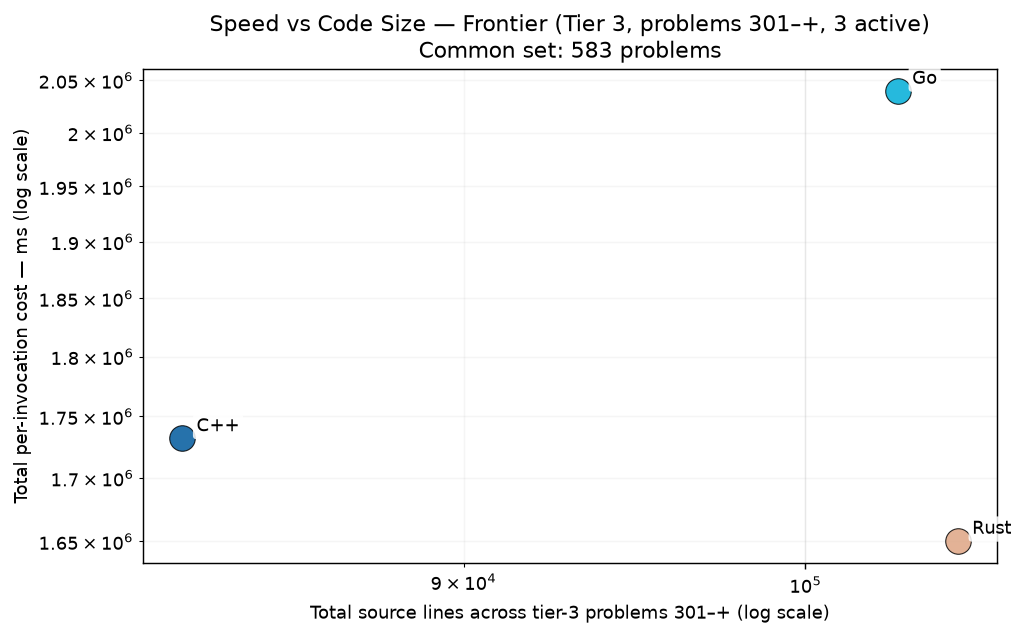
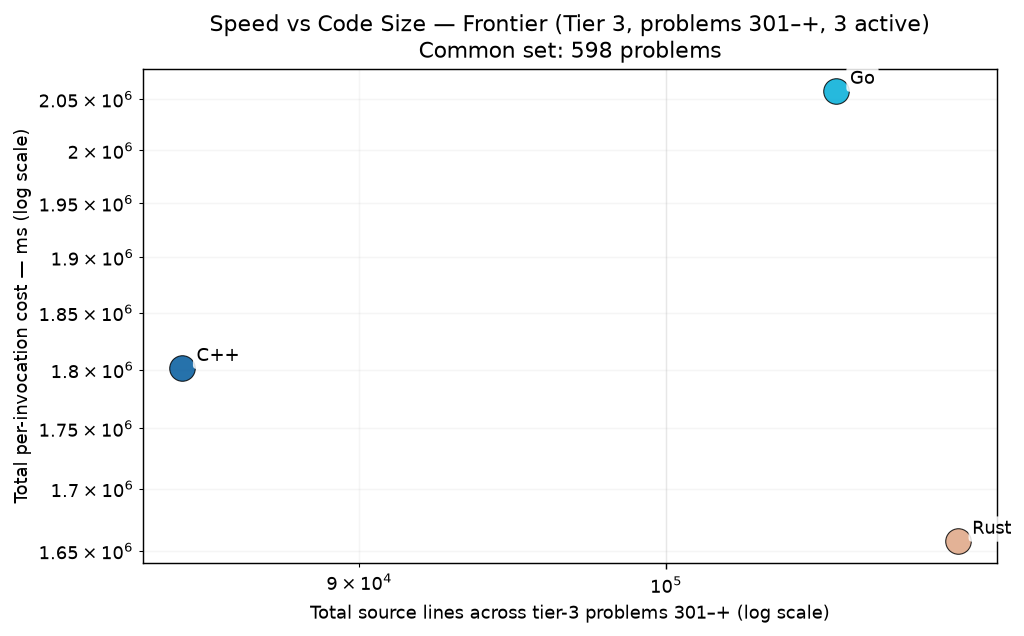
rust p0768

diff --git a/per_problem/per_problem_0401-0500.md b/per_problem/per_problem_0401-0500.md
@@ -57,10 +57,10 @@ in tier-1 display order (native → managed → interpreted).
 | **p0447** | 1.32 s | 1.35 s | 1.43 s |
 | **p0448** | 4.62 s | 14.13 s | 9.78 s |
 | **p0449** | <1 µs~ | <1 µs | 1.5 µs~ |
-| **p0450** | — | 30.08 ms | — |
+| **p0450** | 39.42 ms | 30.08 ms | 111.01 ms |
 | **p0451** | 4.48 s | 5.82 s | 9.08 s |
 | **p0452** | 2.43 s | 4.45 s | 3.56 s |
-| **p0453** | — | 709.2 µs | — |
+| **p0453** | 605.47 ms | 709.2 µs | 6.61 ms |
 | **p0454** | 91.58 s | 1.47 s | 1.49 s |
 | **p0455** | 2.55 s | 1.42 s | 711.39 ms |
 | **p0456** | 310.66 ms | 111.05 ms | 281.59 ms |
@@ -72,41 +72,41 @@ in tier-1 display order (native → managed → interpreted).
 | **p0462** | 1.88 ms | 1.97 ms | 139.4 µs |
 | **p0463** | <1 µs | <1 µs | 20.6 µs~ |
 | **p0464** | 11.96 s | 11.66 s | 14.45 s |
-| **p0465** | — | 669.33 ms | — |
+| **p0465** | 897.71 ms | 669.33 ms | 1.18 s |
 | **p0466** | 2.29 s | 1.70 s | 1.31 s |
 | **p0467** | 114.61 ms | 158.00 ms | 289.56 ms |
 | **p0468** | 12.11 s | 23.12 s | 18.95 s |
 | **p0469** | <1 µs | <1 µs | 1.2 µs~ |
 | **p0470** | 2.30 s | 716.72 ms | 1.03 s |
-| **p0471** | — | 38.64 ms | — |
+| **p0471** | <1 µs | 38.64 ms | 89.2 µs |
 | **p0472** | 8.14 ms | 68.58 ms | 26.65 ms |
 | **p0473** | 3.09 ms | 3.65 ms | 4.68 ms |
 | **p0474** | 26.56 s | 34.90 s | 38.99 s |
 | **p0475** | 187.69 ms | 173.07 ms | 123.55 ms |
 | **p0476** | 578.39 ms | 8.02 s | 10.54 s |
 | **p0477** | — | — | — |
-| **p0478** | — | 454.97 ms | — |
+| **p0478** | 1.13 s | 454.97 ms | 452.17 ms |
 | **p0479** | 619.90 ms | 313.96 ms | 171.03 ms |
 | **p0480** | 503.0 µs | 624.0 µs | 18.92 ms |
 | **p0481** | 63.47 ms | 786.89 ms | 359.69 ms |
-| **p0482** | — | 764.58 ms | — |
-| **p0483** | — | 242.43 ms | — |
+| **p0482** | 594.51 ms | 764.58 ms | 456.26 ms |
+| **p0483** | 1.37 s | 242.43 ms | 5.27 s |
 | **p0484** | 393.81 ms | 443.75 ms | 528.16 ms |
 | **p0485** | 3.13 s | 3.15 s | 3.36 s |
 | **p0486** | 734.12 ms | 103.40 ms | 48.43 ms |
 | **p0487** | 232.38 ms | 69.78 ms | 68.79 ms |
 | **p0488** | 1.53 ms | 20.42 ms | 158.2 µs |
-| **p0489** | — | 46.16 ms | — |
+| **p0489** | 34.61 ms | 46.16 ms | 6.74 ms |
 | **p0490** | 72.41 ms | 17.13 ms | 120.40 ms |
 | **p0491** | 275.1 µs | 391.8 µs | 1.06 ms |
-| **p0492** | — | 392.15 ms | — |
+| **p0492** | 304.19 ms | 392.15 ms | 219.44 ms |
 | **p0493** | <1 µs | <1 µs | 1.2 µs~ |
-| **p0494** | — | 2.63 s | — |
-| **p0495** | — | 1.07 s | — |
+| **p0494** | 61.86 s | 2.63 s | 4.79 s |
+| **p0495** | 915.27 ms | 1.07 s | 795.50 ms |
 | **p0496** | 8.35 s | 11.01 s | 10.95 s |
 | **p0497** | 1.00 s | 1.24 s | 1.74 s |
 | **p0498** | 18.03 ms | 9.84 ms | 8.95 ms |
-| **p0499** | — | 161.72 ms | — |
+| **p0499** | 2.23 ms | 161.72 ms | 667.1 µs |
 | **p0500** | 62.04 ms | 30.84 ms | 85.26 ms |
 
 > † — *no corroboration*: no two samples agreed within 5% even at the cell's full sample count. Diagnostic only — the reported minimum still stands; it flags a disturbed measurement environment worth re-benching (METHODOLOGY.md §3).

diff --git a/per_problem/per_problem_0501-0600.md b/per_problem/per_problem_0501-0600.md
@@ -15,7 +15,7 @@ in tier-1 display order (native → managed → interpreted).
 | **p0505** | 5.11 s | 3.70 s | 5.50 s |
 | **p0506** | 21.0 µs | 9.9 µs | 7.0 µs~ |
 | **p0507** | 5.36 s | 7.62 s | 9.12 s |
-| **p0508** | — | 142.1 µs | 120.8 µs |
+| **p0508** | 158.2 µs | 142.1 µs | 120.8 µs |
 | **p0509** | 724.1 µs | 8.1 µs | 10.8 µs~ |
 | **p0510** | 183.8 µs | 206.1 µs | 226.7 µs |
 | **p0511** | 1.10 s | 1.12 s | 1.21 s |
@@ -31,9 +31,9 @@ in tier-1 display order (native → managed → interpreted).
 | **p0521** | 735.01 ms | 851.44 ms | 2.42 s |
 | **p0522** | 4.26 s | 2.07 s | 977.44 ms |
 | **p0523** | 5.7 µs | 3.4 µs | 17.0 µs~ |
-| **p0524** | — | 18.03 ms | — |
+| **p0524** | 799.49 ms | 18.03 ms | — |
 | **p0525** | 273.7 µs | 206.1 µs | 815.5 µs |
-| **p0526** | — | 28.60 s | — |
+| **p0526** | 1.91 s | 28.60 s | — |
 | **p0527** | 7.3 µs | 7.4 µs | 144.8 µs |
 | **p0528** | 3.22 ms | 2.94 ms | 725.8 µs |
 | **p0529** | 1.19 s | 1.33 s | 1.40 s |
@@ -73,20 +73,20 @@ in tier-1 display order (native → managed → interpreted).
 | **p0563** | 1.13 s | 25.47 s | 20.01 s |
 | **p0564** | 13.35 s | 11.02 s | 17.75 s |
 | **p0565** | 357.89 ms | 213.11 ms | 230.24 ms |
-| **p0566** | — | 8.57 s | — |
+| **p0566** | 1.43 s | 8.57 s | — |
 | **p0567** | 932.94 ms | 150.20 ms | 467.64 ms |
 | **p0568** | <1 µs~ | <1 µs | 463.98 ms |
-| **p0569** | — | 698.82 ms | 3.52 s |
+| **p0569** | 610.42 ms | 698.82 ms | 4.71 s |
 | **p0570** | 377.49 ms | 1.76 s | 1.98 s |
 | **p0571** | 3.30 s | 3.42 s | 11.09 s |
 | **p0572** | 268.53 ms | 13.09 s | 48.68 ms |
-| **p0573** | — | 14.64 ms | — |
+| **p0573** | 3.00 ms | 14.64 ms | — |
 | **p0574** | 5.76 ms | 15.83 ms | 46.28 ms |
 | **p0575** | 108.66 ms | 4.02 ms | 150.5 µs |
 | **p0576** | 969.79 ms | 192.17 ms | 415.43 ms |
 | **p0577** | 3.5 µs | 5.0 µs | 6.7 µs |
 | **p0578** | 4.96 s | 6.20 s | 1.32 s† |
-| **p0579** | — | 2.64 s | — |
+| **p0579** | 439.83 ms | 2.64 s | — |
 | **p0580** | 623.10 ms | 621.85 ms | 954.11 ms |
 | **p0581** | 25.33 ms | 15.63 ms | 201.99 ms |
 | **p0582** | 2.97 ms | 2.84 ms | 1.57 ms |

diff --git a/RESULTS.md b/RESULTS.md
@@ -1,6 +1,6 @@
 # Project Euler — Cross-Language Benchmarks
 
-> **Scope: 4521 in-scope cells across 1007 problems × tiered languages — 4234 measured (93.7% coverage).**
+> **Scope: 4521 in-scope cells across 1007 problems × tiered languages — 4268 measured (94.4% coverage).**
 > The cross-language ranking below is computed over the **200-problem common set** (problems in 1-200 where every language has a passing measurement) — the apples-to-apples Foundation comparison surface.  Per-tier rankings and coverage detail appear further below.
 > Growing carefully — each new problem and language is audited for state-leak
 > safety, verified for answer correctness, and added only when it cleanly fits the
@@ -70,15 +70,15 @@ Same scatter as the Foundation chart, restricted to the tier-2 active languages 
 
 The frontier verification trio — C++, Go, Rust — on problems above 300. 3-way cross-language agreement is the verification protocol (strictly stronger than 2-way; see JOURNEY.md "Tier Reframing" episode for the p254 lesson that motivated it). Python and Zig are explicitly out of this tier — python's wall cost makes it impractical at level 5+, and zig's role caps at Tier 2.
 
-### Per-Invocation Cost (Common Set, 583 of ≤707 problems in scope)
+### Per-Invocation Cost (Common Set, 598 of ≤707 problems in scope)
 
 ![Per-Invocation Cost — Tier 3](charts/per_iter_total_tier3.png)
 
-| Rank | Language | Geomean (583-problem common set) | Total (sum) | Lines of code | vs Fastest |
+| Rank | Language | Geomean (598-problem common set) | Total (sum) | Lines of code | vs Fastest |
 |------|----------|--------------------:|------------:|--------------:|-----------:|
-| 1 | **C++** | 71.25 ms | 1731.90 s | 82,521 | 1.00× |
-| 2 | **Rust** | 71.90 ms | 1650.32 s | 104,807 | 1.01× |
-| 3 | **Go** | 85.37 ms | 2039.61 s | 102,887 | 1.20× |
+| 1 | **C++** | 72.53 ms | 1801.32 s | 84,684 | 1.00× |
+| 2 | **Rust** | 72.79 ms | 1657.82 s | 110,540 | 1.00× |
+| 3 | **Go** | 85.28 ms | 2057.84 s | 105,996 | 1.18× |
 
 ### Speed vs Code Size
 

diff --git a/per_problem/per_problem_0301-0400.md b/per_problem/per_problem_0301-0400.md
@@ -98,7 +98,7 @@ in tier-1 display order (native → managed → interpreted).
 | **p0388** | 127.02 ms | 121.70 ms | 160.28 ms |
 | **p0389** | <1 µs | 1.6 µs | 10.2 µs~ |
 | **p0390** | 40.67 s | 154.8 µs | 3.26 ms |
-| **p0391** | — | 300.05 ms | — |
+| **p0391** | 1.06 s | 300.05 ms | 241.25 ms |
 | **p0392** | 23.89 ms | 486.8 µs | 602.8 µs |
 | **p0393** | 17.13 ms | 17.98 ms | 24.54 ms |
 | **p0394** | <1 µs~ | 6.37 ms | 17.80 ms |

diff --git a/per_problem/per_problem_0701-0800.md b/per_problem/per_problem_0701-0800.md
@@ -75,7 +75,7 @@ in tier-1 display order (native → managed → interpreted).
 | **p0765** | — | 576.8 µs | — |
 | **p0766** | — | 939.20 ms | — |
 | **p0767** | 77.70 ms | 1.41 s | 78.20 ms |
-| **p0768** | — | — | — |
+| **p0768** | — | 64.4 µs | — |
 | **p0769** | — | 13.96 s | — |
 | **p0770** | 158.21 ms | 158.17 ms | 158.29 ms |
 | **p0771** | 87.90 ms | 33.20 ms | 479.86 ms |
